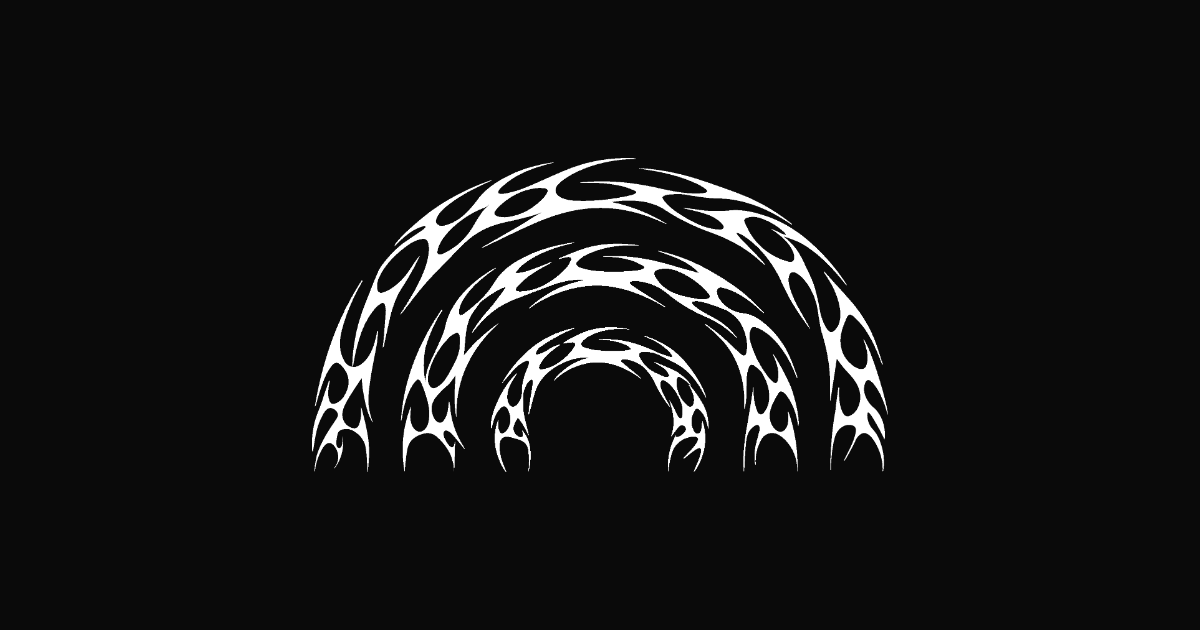
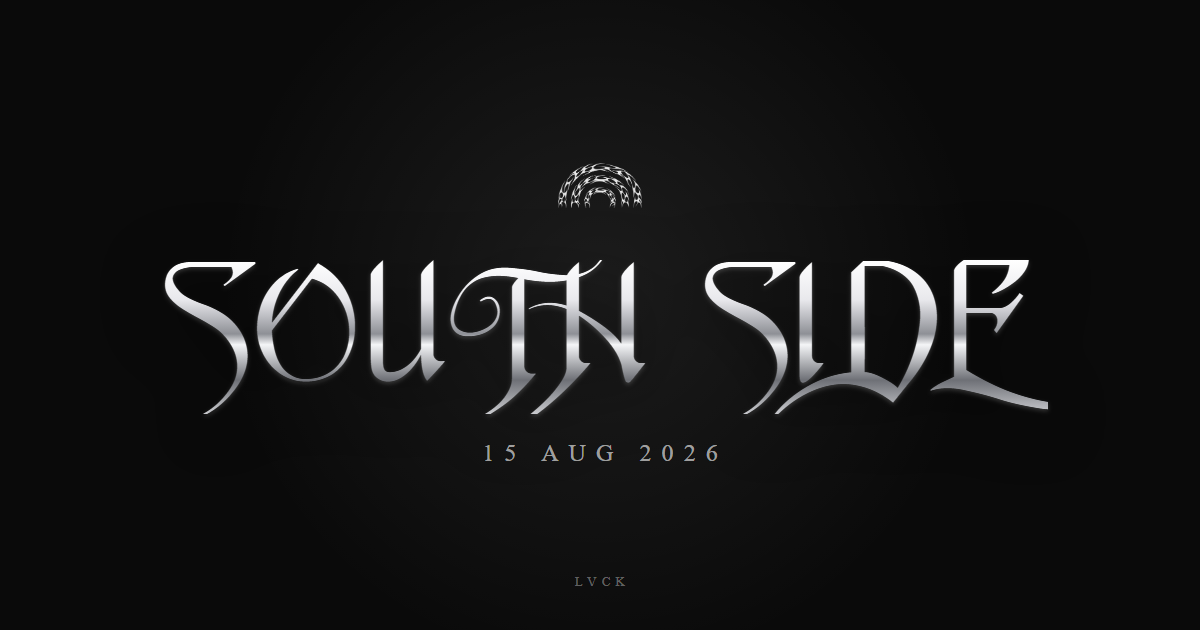
Update the OG share image to the SouthSide chrome lockup
Replace the logo-only card with the current brand lockup: the chrome
"South Side" wordmark over the dark landing background, LVCK arch crest, and
the 15 AUG 2026 drop date (1200x630, rendered from an HTML card). Bump the
og:image / twitter:image cache-buster to ?v=2 so social scrapers refetch it.

Changed region(s): [[0.1233, 0.2413, 0.8942, 0.754], [0.4933, 0.9048, 0.5242, 0.9349], [0.1542, 0.6333, 0.185, 0.6635]]

diff --git a/index.html b/index.html
@@ -9,12 +9,12 @@
   <meta property="og:type" content="website">
   <meta property="og:title" content="SouthSide — LVCK">
   <meta property="og:description" content="LVCK returns with SouthSide — the drop that marks our new chapter. 15 AUG 2026.">
-  <meta property="og:image" content="https://southside-lvck.vercel.app/og-image.png">
+  <meta property="og:image" content="https://southside-lvck.vercel.app/og-image.png?v=2">
   <meta property="og:url" content="https://southside-lvck.vercel.app/">
   <meta name="twitter:card" content="summary_large_image">
   <meta name="twitter:title" content="SouthSide — LVCK">
   <meta name="twitter:description" content="LVCK returns with SouthSide — the drop that marks our new chapter. 15 AUG 2026.">
-  <meta name="twitter:image" content="https://southside-lvck.vercel.app/og-image.png">
+  <meta name="twitter:image" content="https://southside-lvck.vercel.app/og-image.png?v=2">
   <script>
     /* GitHub Pages serves these files but cannot run api/, so on that host every
        signup POSTs to a 404 and is lost silently. Send those visitors to Vercel
